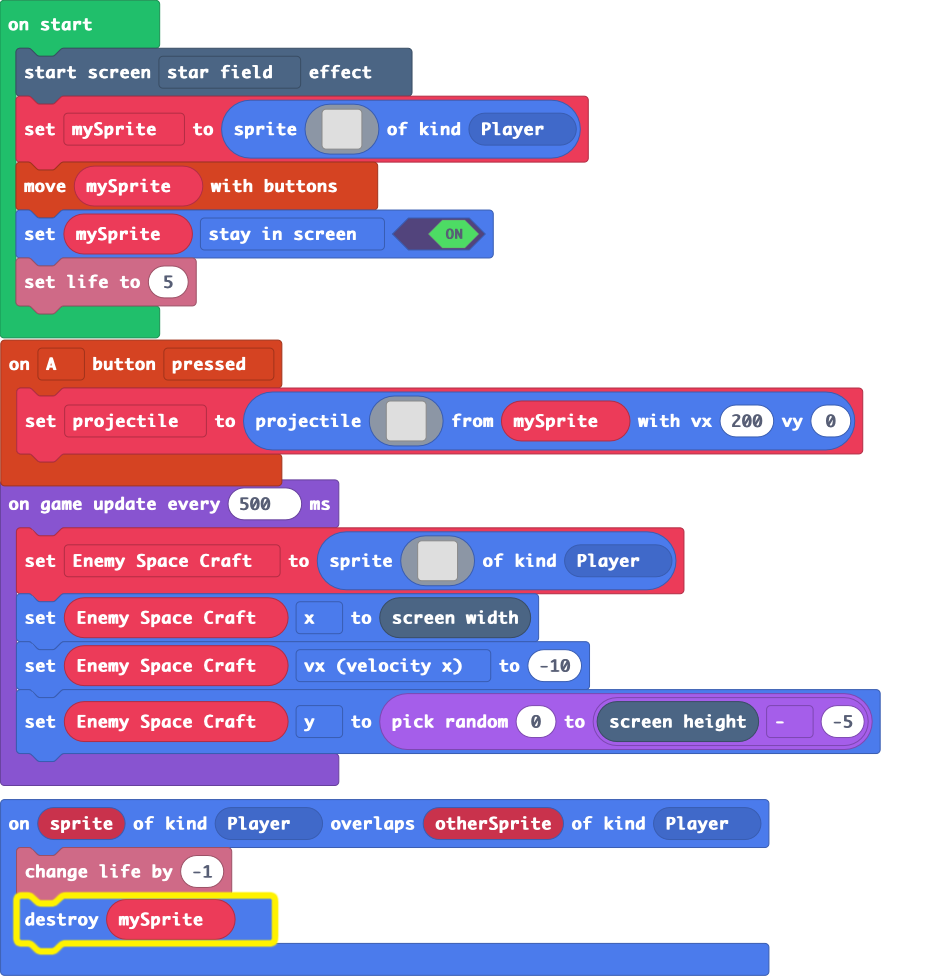
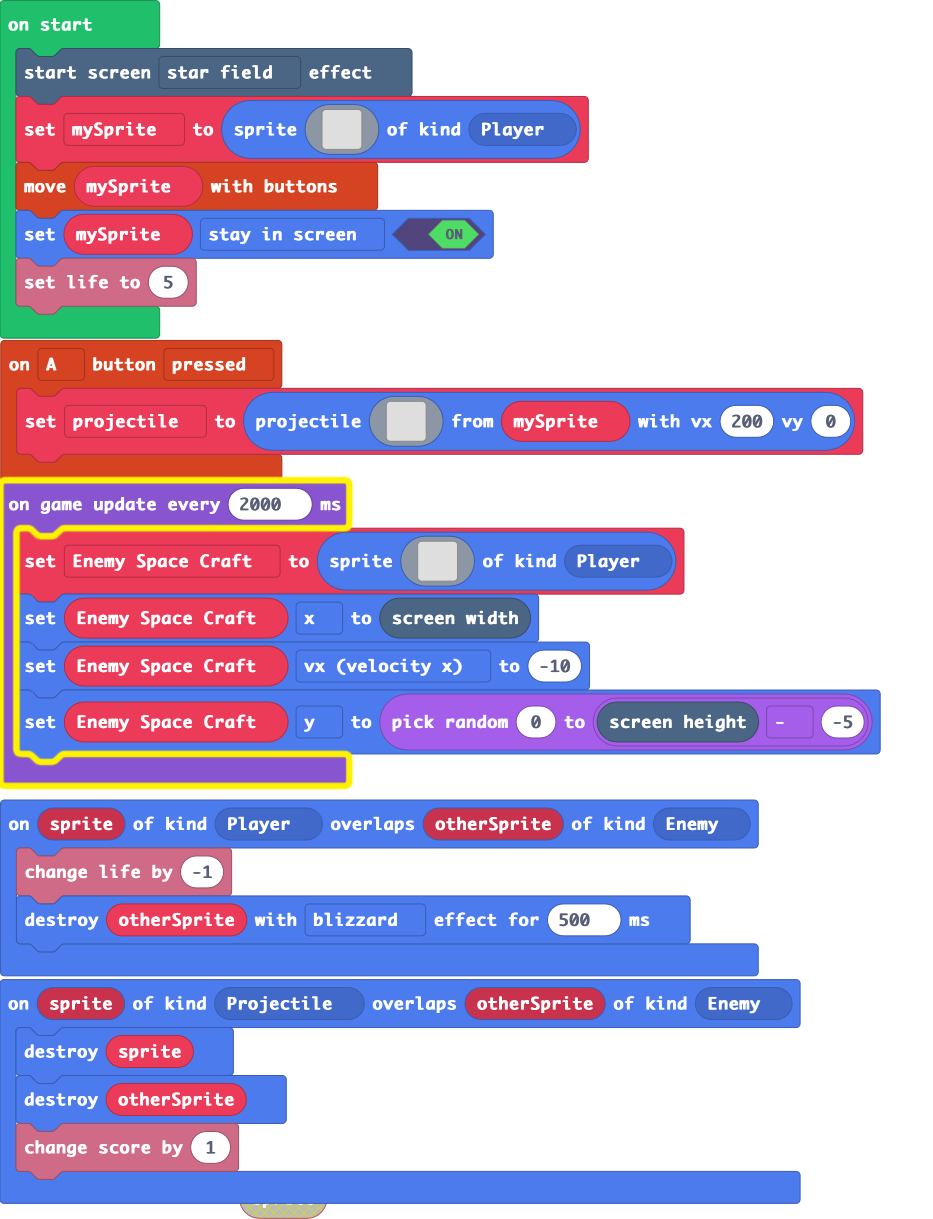
shoot at enemy and gain points

diff --git a/main.ts b/main.ts
@@ -18,9 +18,14 @@ controller.A.onEvent(ControllerButtonEvent.Pressed, function () {
         . . . . . . . . . . . . . . . . 
         `, mySprite, 200, 0)
 })
-sprites.onOverlap(SpriteKind.Player, SpriteKind.Player, function (sprite, otherSprite) {
+sprites.onOverlap(SpriteKind.Projectile, SpriteKind.Enemy, function (sprite, otherSprite) {
+    sprite.destroy()
+    otherSprite.destroy()
+    info.changeScoreBy(1)
+})
+sprites.onOverlap(SpriteKind.Player, SpriteKind.Enemy, function (sprite, otherSprite) {
     info.changeLifeBy(-1)
-    mySprite.destroy()
+    otherSprite.destroy(effects.blizzard, 500)
 })
 let Enemy_Space_Craft: Sprite = null
 let projectile: Sprite = null
@@ -47,7 +52,7 @@ mySprite = sprites.create(img`
 controller.moveSprite(mySprite)
 mySprite.setFlag(SpriteFlag.StayInScreen, true)
 info.setLife(5)
-game.onUpdateInterval(500, function () {
+game.onUpdateInterval(2000, function () {
     Enemy_Space_Craft = sprites.create(img`
         . . . . . . . . . . . . . . . . 
         . . . . . . . . . . . . 2 2 5 5 
